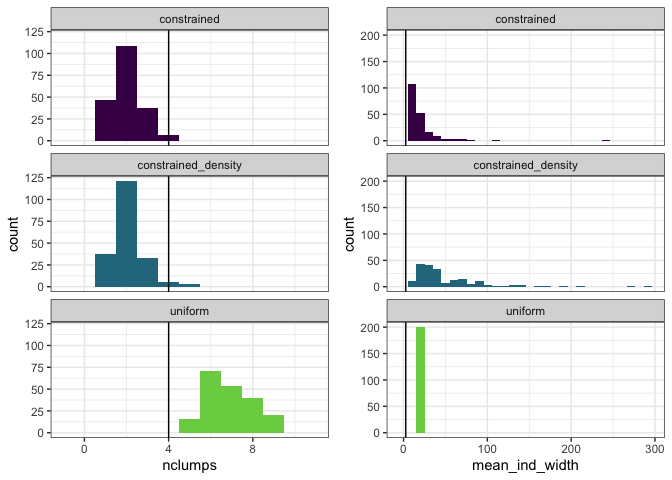
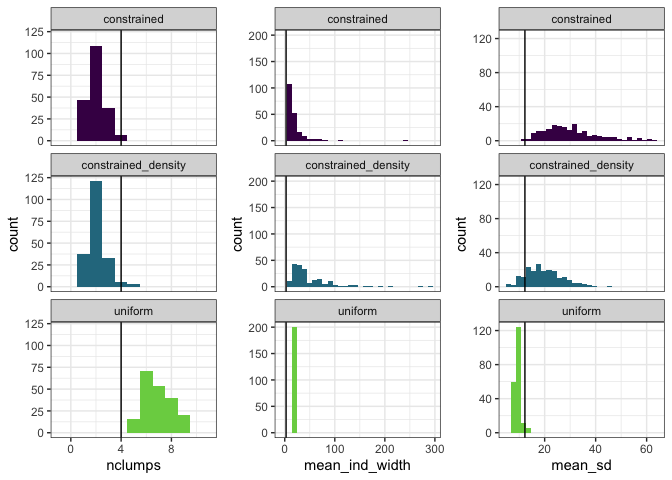
redner

diff --git a/analysis/reports/new_drake.md b/analysis/reports/new_drake.md
@@ -8,5 +8,15 @@ New workflow
     ## Warning: Removed 6 rows containing missing values (geom_bar).
 
     ## `stat_bin()` using `bins = 30`. Pick better value with `binwidth`.
+    ## `stat_bin()` using `bins = 30`. Pick better value with `binwidth`.
 
 ![](new_drake_files/figure-markdown_github/summarize%20sims-1.png)
+
+### More closely on how these metrics work
+
+-   Sd is familiar but not great, because if there are many modes with few individuals each, you get a low sd, similar to if you have a mode with a lot of individuals concentrated in a tight space.
+-   Thus me gravitating towards the nb individuals/width of clump metric. This is basically "how pointy is the clump" and helps distinguish 4 pointy clumps from 4 loose clumps.
+
+So, let's plot all our simulated ISDs in order of most to least average pointiness, and color code them by pointyness. A pointiness gut check.
+
+![](new_drake_files/figure-markdown_github/sort%20by%20pointiness-1.png)
